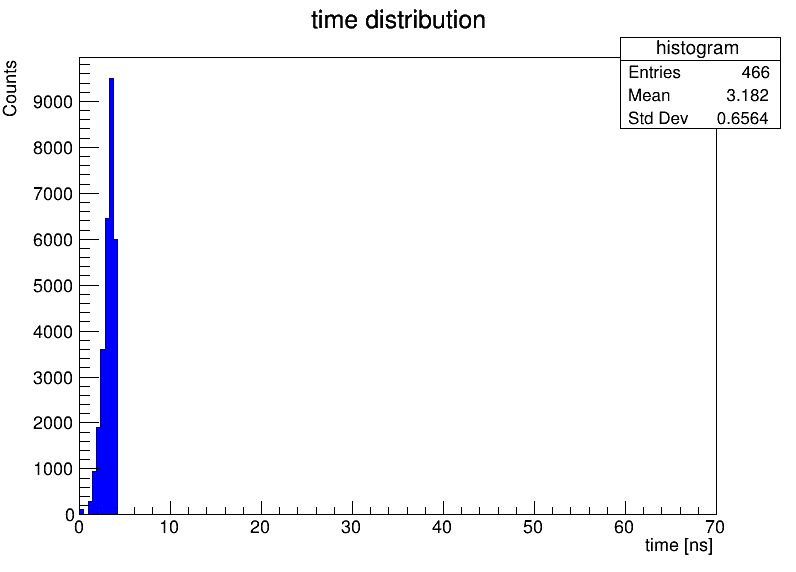
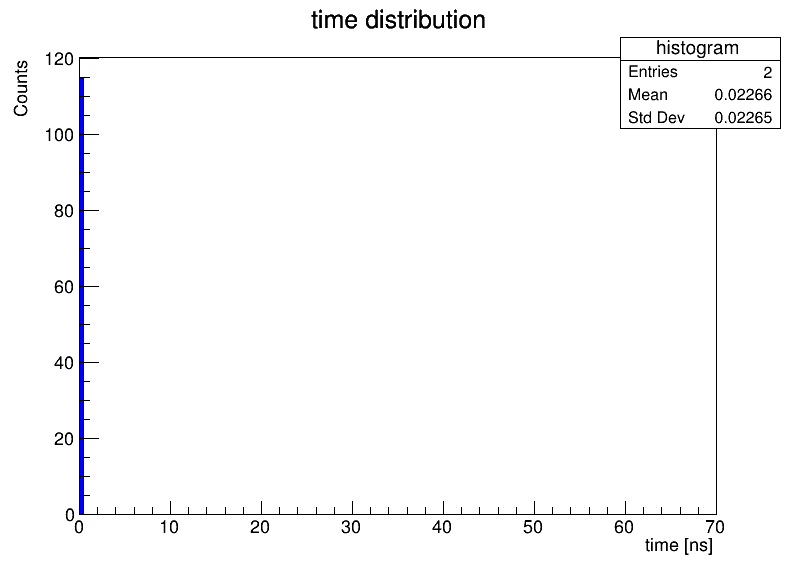
new commit

diff --git a/time_distribution.C b/time_distribution.C
@@ -38,7 +38,7 @@ int main() {
     int numEventsToSelect = std::min(500, static_cast<int>(time.size()));
 
     double minTime = *std::min_element(time.begin(), time.end());
-    double maxTime = minTime + 4.0; // Tempo più piccolo + 4ns
+    double maxTime = minTime + 1.0; 
 
     std::vector<double> selectedTimes;
     for (int i = 0; i < time.size() && selectedTimes.size() < numEventsToSelect; ++i) {
